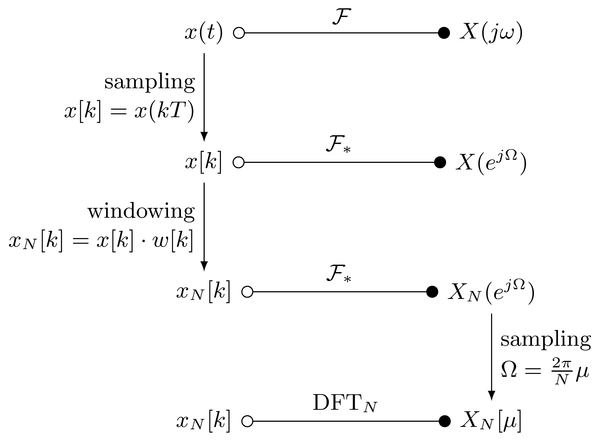
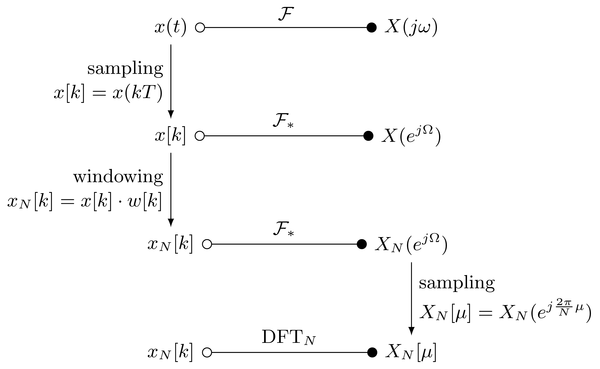
Revised figure, fixed typos

diff --git a/images/spectral_analysis.tex b/images/spectral_analysis.tex
@@ -24,7 +24,7 @@
     \node [below of=wind, yshift=2.2cm] (disc) {$x_N[k]$};
     \node [right of=disc] (DFT) {$X_N[\mu]$};
     \draw [o-*] (disc)--(DFT) node[midway, above]{$\text{DFT}_N$};
-    \draw [->] (DTFTN)--(DFT) node[midway, right]{\shortstack[l]{sampling\\$\Omega = \frac{2 \pi}{N} \mu$}};;
+    \draw [->] (DTFTN)--(DFT) node[midway, right]{\shortstack[l]{sampling\\$X_N[\mu] = X_N(e^{j \frac{2 \pi}{N} \mu})$}};
     
 \end{tikzpicture}
 
